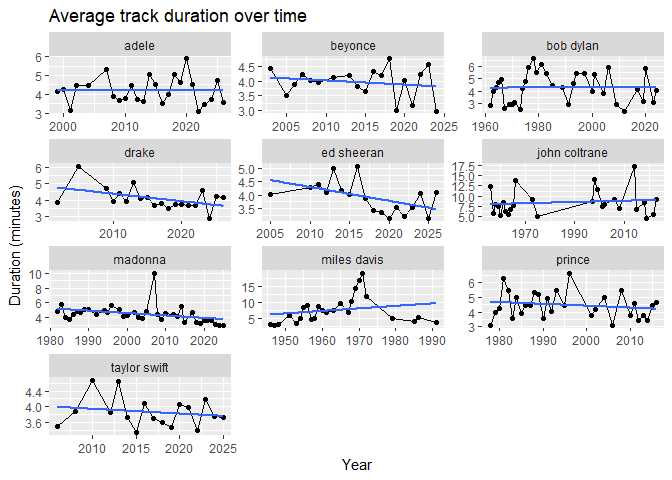
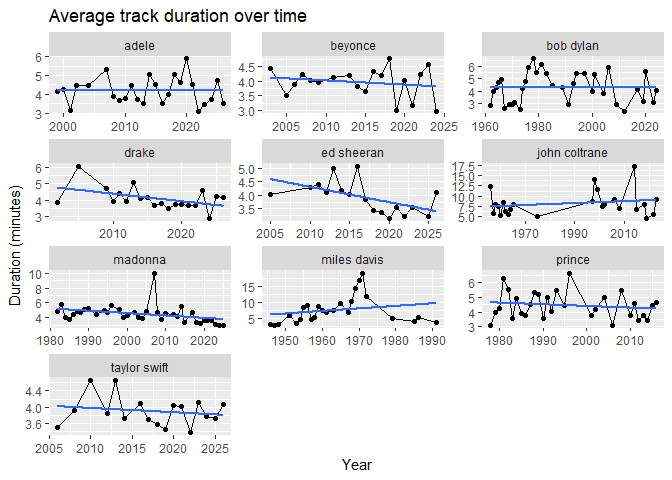
tweaks to lecture 18-19

diff --git a/docs/lectures/lecture-18-19.md b/docs/lectures/lecture-18-19.md
@@ -200,14 +200,14 @@ df
        <chr>       <chr>    <int>        <int>      <int> <chr>      <chr>          
      1 track       song   1419227    626204707  626205222 Beyoncé    4 (Expanded Ed…
      2 track       song   1419227    261707051  261707067 Beyoncé    B'Day (Deluxe …
-     3 track       song   1419227    626204707  626205875 Beyoncé    4 (Expanded Ed…
-     4 track       song   1419227    626204707  626205216 Beyoncé    4 (Expanded Ed…
-     5 track       song   1419227    626204707  626205872 Beyoncé    4 (Expanded Ed…
-     6 track       song   1419227   1460430561 1460430756 Beyoncé    Lemonade       
+     3 track       song   1419227    626204707  626205216 Beyoncé    4 (Expanded Ed…
+     4 track       song   1419227    626204707  626205872 Beyoncé    4 (Expanded Ed…
+     5 track       song   1419227    626204707  626205875 Beyoncé    4 (Expanded Ed…
+     6 track       song   1419227    296016891  296016893 Beyoncé    I AM...SASHA F…
      7 track       song     15885    279724861  279724870 USHER      Love In This C…
-     8 track       song   1419227    296016891  296016893 Beyoncé    I AM...SASHA F…
+     8 track       song   1419227   1460430561 1460430756 Beyoncé    Lemonade       
      9 track       song   1419227    296016891  296016901 Beyoncé    I AM...SASHA F…
-    10 track       song   1419227    626204707  626205217 Beyoncé    4 (Expanded Ed…
+    10 track       song   1419227    296016891  296016902 Beyoncé    I AM...SASHA F…
     # ℹ 190 more rows
     # ℹ 28 more variables: trackName <chr>, collectionCensoredName <chr>,
     #   trackCensoredName <chr>, artistViewUrl <chr>, collectionViewUrl <chr>,
@@ -375,7 +375,7 @@ page
 ```
 
     {html_document}
-    <html class="client-nojs vector-feature-language-in-header-enabled vector-feature-language-in-main-menu-disabled vector-feature-language-in-main-page-header-disabled vector-feature-page-tools-pinned-disabled vector-feature-toc-pinned-clientpref-1 vector-feature-main-menu-pinned-disabled vector-feature-limited-width-clientpref-1 vector-feature-limited-width-content-enabled vector-feature-custom-font-size-clientpref-1 vector-feature-appearance-pinned-clientpref-1 skin-theme-clientpref-day vector-sticky-header-enabled wp25eastereggs-enable-clientpref-1 vector-toc-available skin-theme-clientpref-thumb-standard" lang="en" dir="ltr">
+    <html class="client-nojs vector-feature-language-in-header-enabled vector-feature-language-in-main-menu-disabled vector-feature-language-in-main-page-header-disabled vector-feature-page-tools-pinned-disabled vector-feature-toc-pinned-clientpref-1 vector-feature-main-menu-pinned-disabled vector-feature-limited-width-clientpref-1 vector-feature-limited-width-content-enabled vector-feature-custom-font-size-clientpref-1 vector-feature-appearance-pinned-clientpref-1 skin-theme-clientpref-day vector-sticky-header-enabled vector-toc-available skin-theme-clientpref-thumb-standard" lang="en" dir="ltr">
     [1] <head>\n<meta http-equiv="Content-Type" content="text/html; charset=UTF-8 ...
     [2] <body class="skin--responsive skin-vector skin-vector-search-vue mediawik ...
 
@@ -510,7 +510,7 @@ safe_scrape <- possibly(
 results <- map(urls, safe_scrape) |> compact() # compact() drops the NULLs
 ```
 
-### Write idempotent code
+### Your scraper should be able to be interrupted and restarted
 
 A well-written scraper can be interrupted and restarted without
 repeating work that already succeeded. This matters because scraping
@@ -525,14 +525,14 @@ log_file <- "data/scrape_log.csv"
 
 # Initialize log if it doesn't exist yet
 if (!file.exists(log_file)) {
-  tibble(url = urls, status = NA_character_) |> write_csv(log_file)
+  tibble(url = urls, status = as.characer(NA)) |> write_csv(log_file)
 }
 
 log <- read_csv(log_file, show_col_types = FALSE)
 
 for (url in urls) {
   # Skip if already succeeded
-  if (isTRUE(log$status[log$url == url] == "ok")) {
+  if (log$status[log$url == url] == "ok") {
     next
   }
 